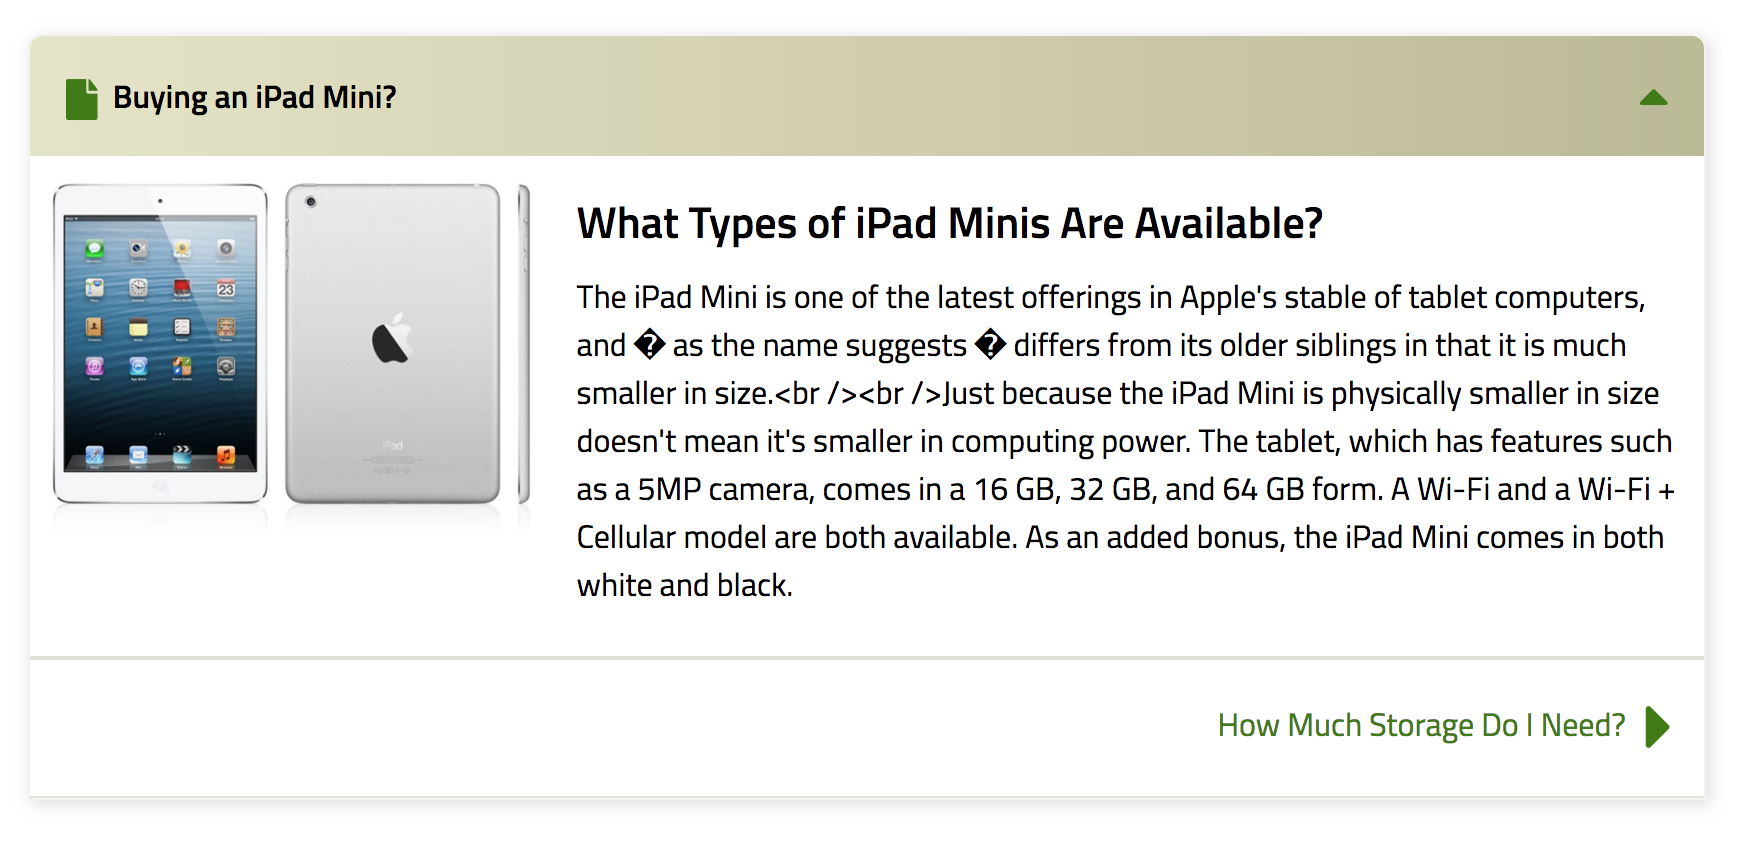
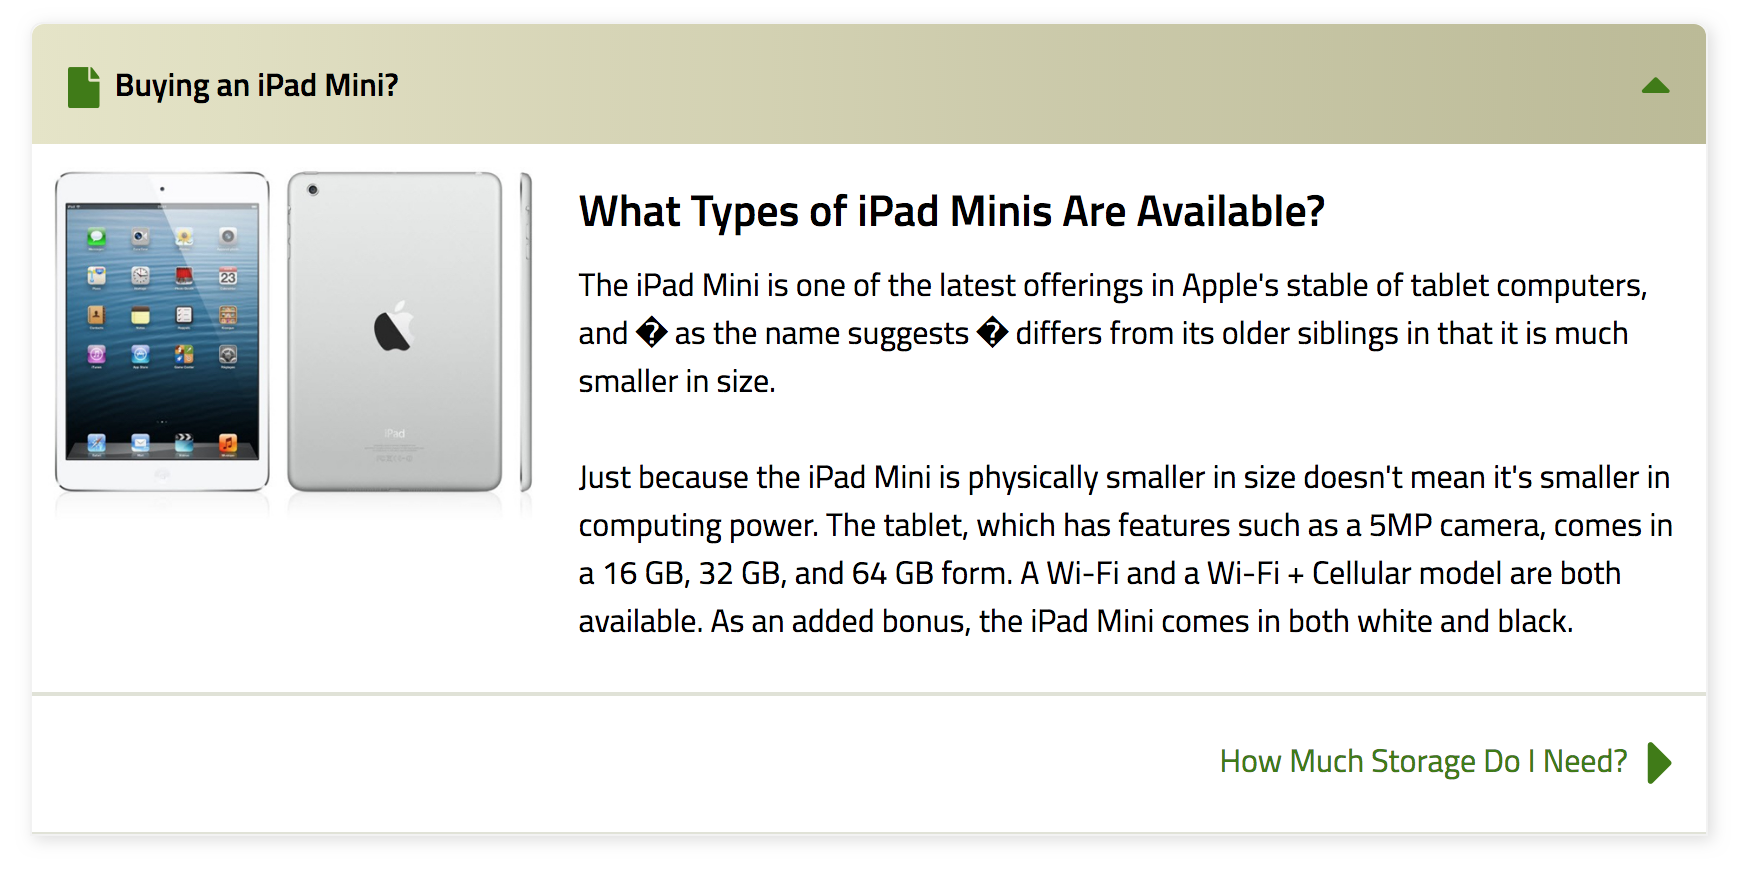
minor fix

diff --git a/src/components/ItemInformation/ItemInformation.js b/src/components/ItemInformation/ItemInformation.js
@@ -15,7 +15,7 @@ const ItemInformation = ({content}) => (
     <div className='info-content'>
       {/* title was not part of requirement but I still added it so we know if they are in sync with nav bar*/}
       <h2>{content.title}</h2>
-      <div>{content.description}</div>
+      <div dangerouslySetInnerHTML={{__html:content.description}} />
     </div>
   </div>
 );
